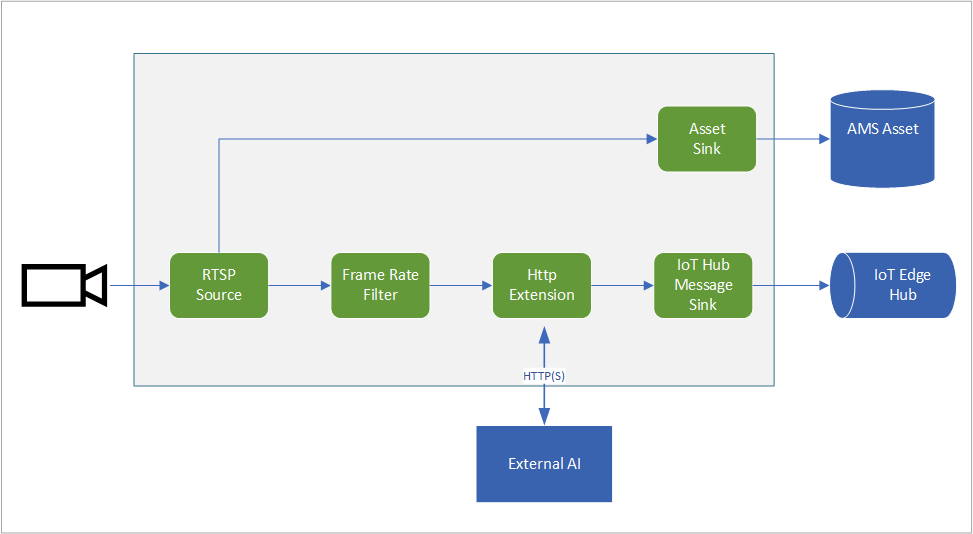
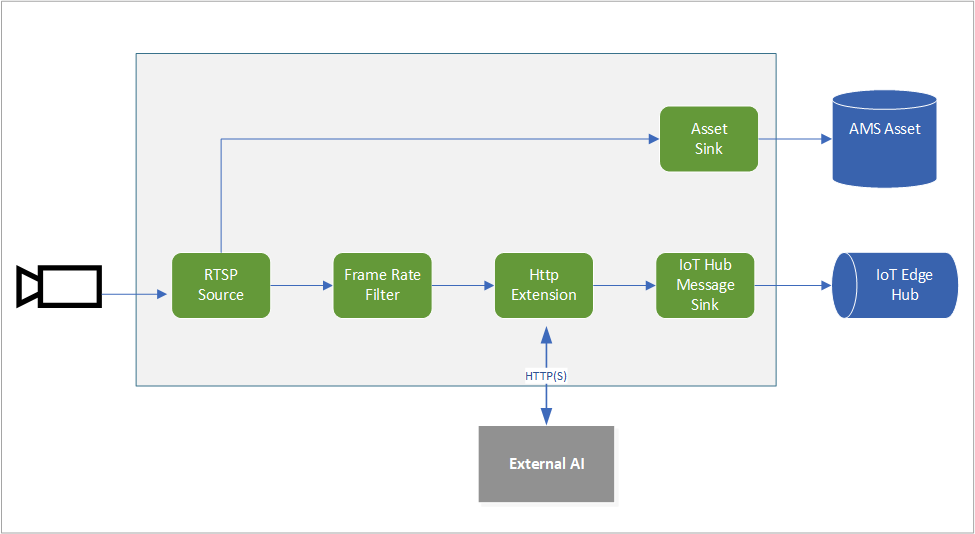
Updated topologies and added missing ones
Updated all png except one - evr-hubMessageFiles
Added cvr-withevr-motion-files top
Added evr-hubMessage-assets-and-files topo

diff --git a/MediaGraph/topologies/motion-with-httpGraphExtension/readme.md b/MediaGraph/topologies/motion-with-httpGraphExtension/readme.md
@@ -1,1 +1,10 @@
 # HTTP Graph extension for inferencing based on motion detection
+This topology enables you to extend the Media graph by interfacing it with an External AI module. However, it does so intelligently based on motion such that the AI is called only when motion is detected within the video. You can read more about the continuous video recording scenario in this documentation page.
+
+Additionally, the graph passes the motion detection event to a signal gate which connects to an Asset Sink, so that the relevant video clips can be generated as an AMS asset on the cloud. You can read more about the continuous video recording scenario in this documentation page.
+
+<br>
+<p align="center">
+  <img src="./topology.png" title="Analyze video intelligently based on motion via an external AI and publish relevant video clips to cloud as media assets"/>
+</p>
+<br>

diff --git a/MediaGraph/topologies/evr-hubMessage-assets-and-files/readme.md b/MediaGraph/topologies/evr-hubMessage-assets-and-files/readme.md
@@ -1,0 +1,10 @@
+# Record videos to assets and files based on messages via hub source
+This topology enables you to extend the Media graph by interfacing it with an External AI module, relaying inference events from the AI to be published onto the Iot Edge Hub. Additonally, an external edge module triggers the graph to record video clips as mp4 files on the edge and media assets in the cloud. The trigger to generate these clips is based on the AI inference events published onto the Hub. You can read more about the continuous video recording scenario in this documentation page.
+
+
+
+<br>
+<p align="center">
+  <img src="./topology.png" title="Record videos to assets and files based on messages via hub source"/>
+</p>
+<br>

diff --git a/MediaGraph/topologies/cvr-with-evr-motion-files/readme.md b/MediaGraph/topologies/cvr-with-evr-motion-files/readme.md
@@ -1,0 +1,9 @@
+# Continuous video recording and record videos to files, based on motion events
+This topology enables you to capture video from RTSP source and continuously record it to an Azure Media Services asset. You can read more about the continuous video recording scenario in this documentation page.
+In addition to recording continous video, the topology also supports detecting motion, relaying such motion detection events to the IoT edge hub as well as recording motion detected events to media assets in the cloud. 
+
+<br>
+<p align="center">
+  <img src="./topology.png" title="Continuous video recording to AMS asset along with motion detected AMS assets"/>
+</p>
+<br>

diff --git a/MediaGraph/topologies/httpGraphExtension/readme.md b/MediaGraph/topologies/httpGraphExtension/readme.md
@@ -1,1 +1,8 @@
 # HTTP Graph extension for inferencing
+This topology enables you to extend the Media graph by interfacing it with an External AI module. In addition, the graph collects the inference events from the external AI module and pusblishes them onto the Hub. You can read more about the continuous video recording scenario in this documentation page.
+
+<br>
+<p align="center">
+  <img src="./topology.png" title="Analyze video via external AI and publish inference events to Hub"/>
+</p>
+<br>

diff --git a/MediaGraph/topologies/evr-motion-files/readme.md b/MediaGraph/topologies/evr-motion-files/readme.md
@@ -1,1 +1,8 @@
 # Record videos to files, based on motion events
+This topology enables you to generate mp4 video clips on the edge on a local file system whenever motion is detected oin the video. You can read more about the continuous video recording scenario in this documentation page.
+
+<br>
+<p align="center">
+  <img src="./topology.png" title="Record videos to files, based on motion events"/>
+</p>
+<br>

diff --git a/MediaGraph/topologies/motion-detection/readme.md b/MediaGraph/topologies/motion-detection/readme.md
@@ -1,1 +1,8 @@
 # Detect motion and output events
+This topology enables you to detect motion in the video stream and publish such events to the IoT Hub
+
+<br>
+<p align="center">
+  <img src="./topology.png" title="Detect motion and publish events to Hub"/>
+</p>
+<br>
